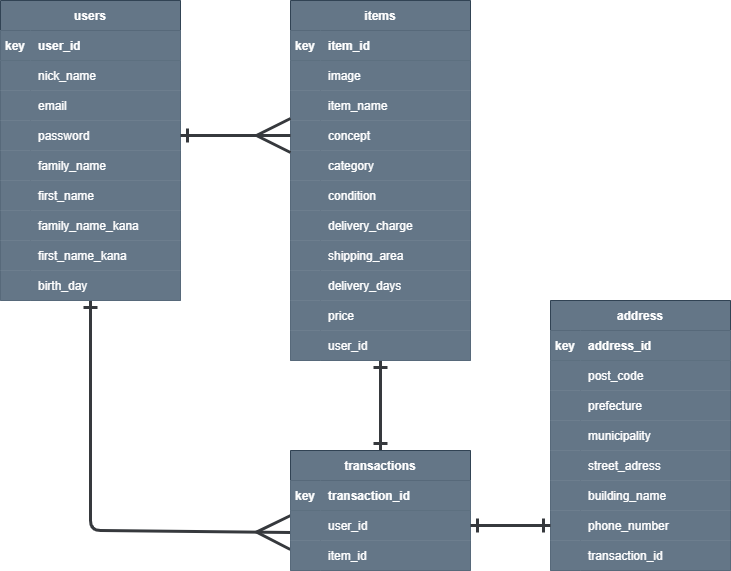
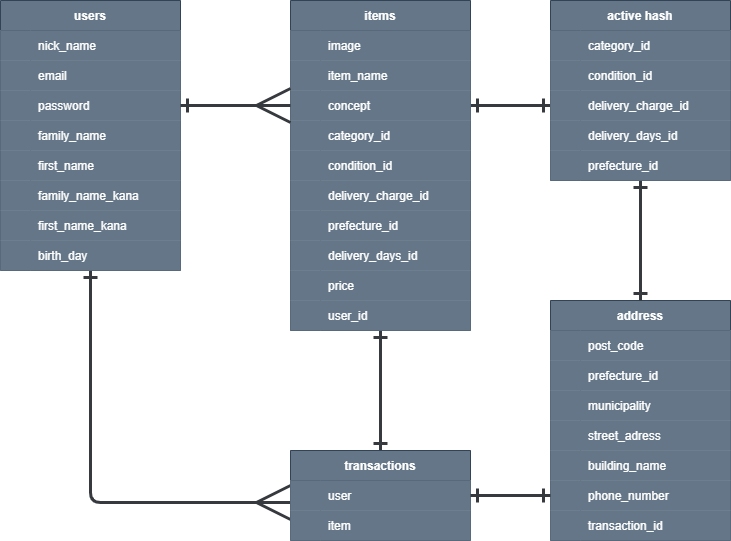
ER図修正_002

diff --git a/README.md b/README.md
@@ -3,66 +3,71 @@
 
 ## users テーブル
 
-| Column                  | Type   | Options     |
-| ------------------      | ------ | ----------- |
-| nick_name               | string | null: false |
-| email                   | string | null: false |
-| password                | string | null: false |
-| family_name             | string | null: false |
-| first_name              | string | null: false |
-| family_name_kana        | string | null: false |
-| first_name_kana         | string | null: false |
-| birth_day               | string | null: false |
+| Column                  | Type   | Options            |
+| ------------------      | ------ | -----------        |
+| nick_name               | string | null: false unique |
+| email                   | string | null: false unique |
+| encrypted_password      | string | null: false        |
+| family_name             | string | null: false        |
+| first_name              | string | null: false        |
+| family_name_kana        | string | null: false        |
+| first_name_kana         | string | null: false        |
+| yymmdd                  | string | null: false        |
 
 ### Association
-- has_many :items
-- has_many :transactions
+has_many :items
+has_many :transactions
 
 
 ## items テーブル
 
 | Column               | Type       | Options                              |
 | ------               | ------     | -------------------------------      |
-| image                |            | null: false                          | 
 | item_name            | string     | null: false                          |
 | concept              | text       | null: false                          |
-| category             | string     | null: false                          |
-| condition            | string     | null: false                          |
-| delivery_charge      | string     | null: false                          |
-| shipping_area        | string     | null: false                          |
-| delivery_days        | string     | null: false                          |
-| price                | string     | null: false                          |
-| user_id              | references | null: null: false, foreign_key: true |
+| category_id          | integer    | null: false                          |
+| condition_id         | integer    | null: false                          |
+| delivery_charge_id   | integer    | null: false                          |
+| prefecture_id        | integer    | null: false                          |
+| delivery_days_id     | integer    | null: false                          |
+| price                | integer    | null: false                          |
+| user                 | references | null: null: false, foreign_key: true |
 
 ### Association
-- belongs_to :users
-- has_one :transaction
-
+belongs_to :user
+has_one :transaction
+belongs_to_active_hash :category
+belongs_to_active_hash :condition
+belongs_to_active_hash :delivery_charge
+belongs_to_active_hash :prefecture
+belongs_to_active_hash :delivery_days
 
 ## transactions テーブル
 
 | Column               | Type       | Options                              |
 | ------               | ------     | -------------------------------      |
-| user_id              | references | null: null: false, foreign_key: true |
-| item_id              | references | null: null: false, foreign_key: true |
+| user                 | references | null: null: false, foreign_key: true |
+| item                 | references | null: null: false, foreign_key: true |
 
 ### Association
-- belongs_to :users
-- belongs_to :item
-- has_one :address
+belongs_to :user
+belongs_to :item
+has_one :address
 
 
-## address テーブル
+## addresses テーブル
 
 | Column               | Type       | Options                              |
 | ------               | ------     | -------------------------------      |
 | post_code            | string     | null: false                          |
-| prefecture           | string     | null: false                          |
+| prefecture_id        | integer    | null: false                          |
 | municipality         | string     | null: false                          |
 | street_address       | string     | null: false                          |
-| building_name        | string     | null: false                          |
+| building_name        | string     |                                      |
 | phone_number         | string     | null: false                          |
-| transaction_id       | references | null: null: false, foreign_key: true |
+| transaction          | references | null: null: false, foreign_key: true |
 
 ### Association
-- belongs_to :transaction
+belongs_to :transaction
+belongs_to_active_hash :prefecture
+
